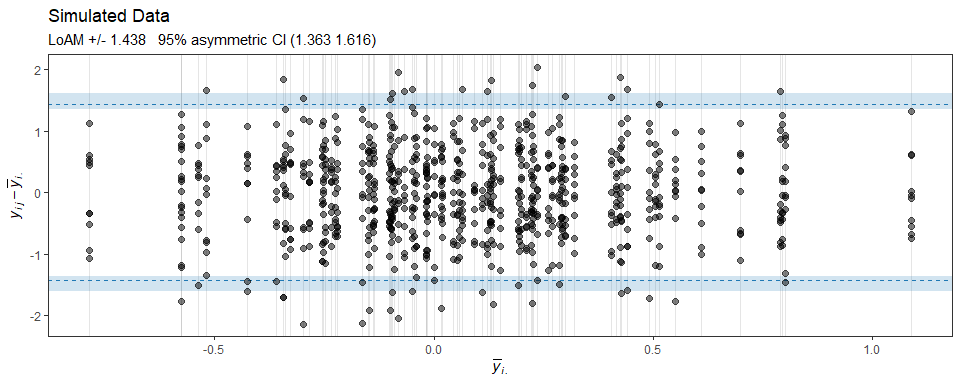
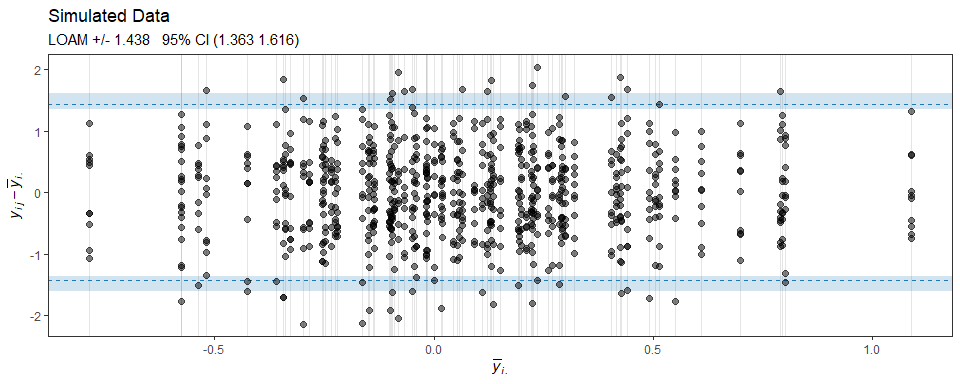
Changes to README.Rmd

Changed region(s): [[0.0625, 0.0625, 0.4062, 0.125]]

diff --git a/README.md b/README.md
@@ -1,28 +1,26 @@
 
 <!-- README.md is generated from README.Rmd. Please edit that file -->
 
-# loamr
+# loamr: limits of agreement with the mean
 
-loamr is an R package for performing an agreement analysis for
-continuous measurements by multiple observers as suggested by
-Christensen et al. Specifically, the package can be used for making
-agreement plots and calculation of the estimate and CI for the limits of
-agreement with the mean proposed by Christensen et al. 
+`loamr` is an `R` package for performing agreement analysis on
+continuous measurements made by multiple observers on a number of
+subjects. The package provides functions for making agreement plots and
+for calculating the estimate and CI for the limits of agreement with the
+mean proposed by Christensen et al. 
 
 ## Installation
 
-loamr may be installed using the following command
+`loamr` may be installed using the following command
 
 ``` r
 devtools::install_github("HaemAalborg/loamr")
 ```
 
-# Overview
-
-## Simulation of Data
+# Example
 
 The package includes a function to simulate data from the two-way random
-effects model:
+effects model described in Christensen et al (2020):
 
 ``` r
 sim <- simMD(subjects=80, observers=10)
@@ -31,28 +29,31 @@ LOAM(sim)
 #> 
 #> The data has 800 observations from 80 individuals by 10 observers with 1 measurements
 #> 
-#> LoAM: +/-      1.438
-#> Symmetric CI:        (1.342, 1.534)
-#> Asymmetric CI:       (1.363, 1.616)
+#> LOAM:  +/- 1.438 (1.363, 1.616)
 #> 
-#> ICC:           0.104 (0.057, 0.170)
-#> sigmaB:        0.235 (0.113, 0.357)
-#> sigmaE:        0.737 (0.698, 0.775)
+#> sigmaA:    0.264 (0.190, 0.337)
+#> sigmaB:    0.235 (0.113, 0.357)
+#> sigmaE:    0.737 (0.700, 0.777)
+#> ICC(A,1):  0.104 (0.057, 0.170)
 #> 
-#> Confidence interval in brackets: 95 %
+#> Coverage probability for the above CIs: 95%
 ```
 
-The S3 class includes a generic plotting function made with ggplot2. As
-the plotting is done by ggplot2 it’s easy to change elements of the
+The S3 class includes a generic plotting function made with `ggplot2`.
+As the plotting is done by `ggplot2` it’s easy to change elements of the
 plot, like the title:
 
 ``` r
 plot(LOAM(sim), CItype="asym") + labs(title="Simulated Data")
 #> Observers not illustrated as there is more than 6
+#> Warning: Ignoring unknown parameters: CItype
 ```
 
 ![](man/figures/README-unnamed-chunk-4-1.png)<!-- -->
 
 ## References
 
-1.  Christensen et al.
+1.  Christensen, H. S., Borgbjerg, J., Børty, L., and Bøgsted, M. (2020)
+    “On Jones et al.’s method for extending Bland-Altman plots to limits
+    of agreement with the mean for multiple observers”. BMC Medical
+    Research Methodology. <https://doi.org/10.1186/s12874-020-01182-w>
